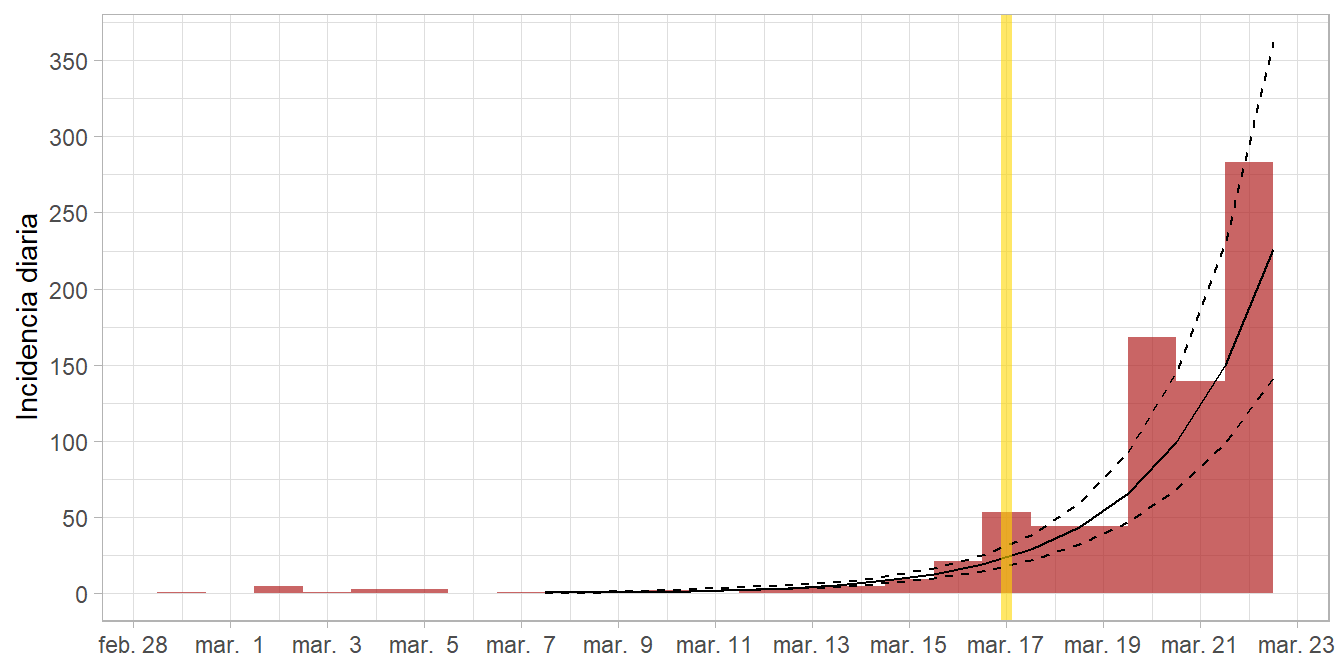
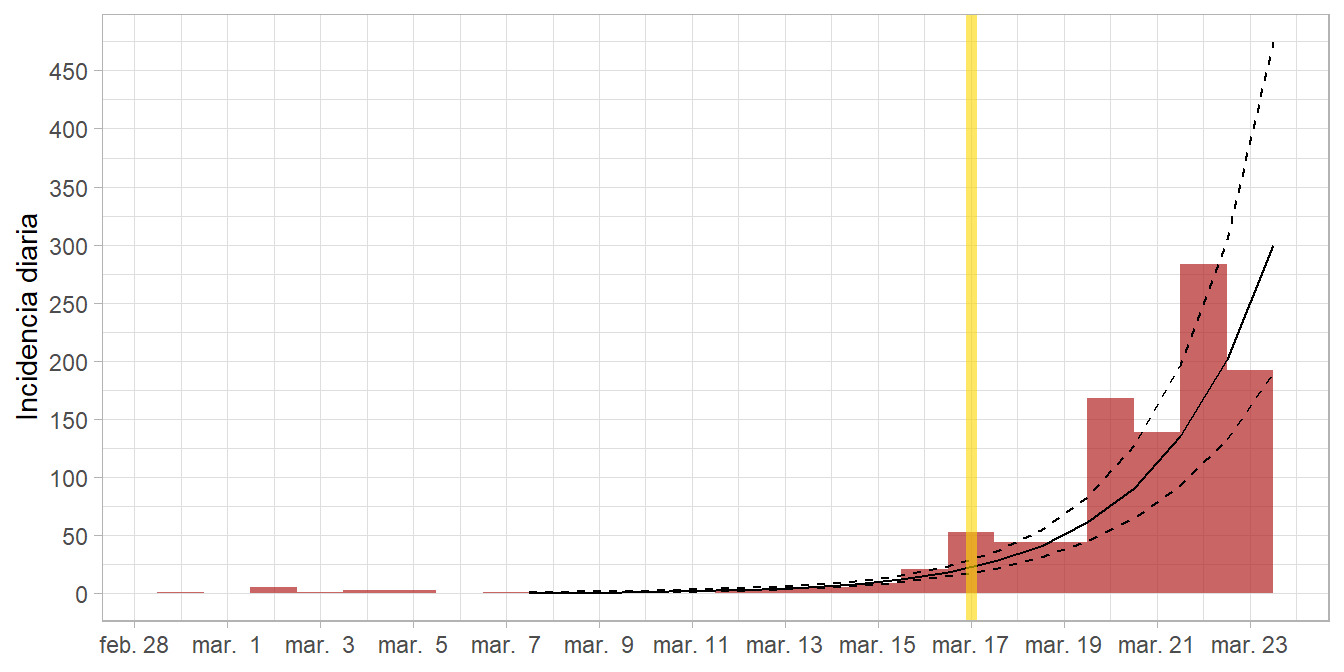
5th post corona act4

diff --git a/docs/post/2020/03/20-caracterizacion-covid-ecuador/index.html b/docs/post/2020/03/20-caracterizacion-covid-ecuador/index.html
@@ -298,7 +298,7 @@ code span.wa { color: #bf0303; } /* Warning */
 </style>
 
 
-<p><strong>Actualizado: 22 de marzo, 12 AM</strong></p>
+<p><strong>Actualizado: 23 de marzo, 12 AM</strong></p>
 <p>En vista de la emergencia en curso causada por el SARS-CoV-2 se presenta una caracterización de la epidemia en Ecuador. Se ha aplicado una metodología sugerida por el R Epidemics Consortium <a href="https://www.repidemicsconsortium.org/">RECON</a> que permite estimar tempranamente el ritmo reproductivo del virus; esta metodología requiere poseer información sobre la transmisión, y datos de la incidencia. La información requerida contempla los siguientes conceptos:</p>
 <ul>
 <li><p>El ritmo reproductivo básico (<em>Basic Reproduction Number</em>, R<sub>0</sub>) es el número esperado de casos nuevos, generados directamente por un determinado caso en una población completamente susceptible; es crucial entender que R<sub>0</sub> no es una constante biológica de un patógeno, pues es afectado por factores ambientales y conductuales.</p></li>
@@ -331,6 +331,20 @@ Personas fallecidas
 </tr>
 </thead>
 <tbody>
+<tr>
+<td style="text-align:left;">
+Riesgos_Ec
+</td>
+<td style="text-align:left;">
+23 de marzo, 10 AM
+</td>
+<td style="text-align:right;">
+981
+</td>
+<td style="text-align:right;">
+18
+</td>
+</tr>
 <tr>
 <td style="text-align:left;">
 Riesgos_Ec
@@ -613,8 +627,8 @@ Salud_Ec
 ##          1          5          1          3          3          1          1 
 ## 2020-03-10 2020-03-12 2020-03-13 2020-03-14 2020-03-15 2020-03-16 2020-03-17 
 ##          2          2          4          5          9         21         53 
-## 2020-03-18 2020-03-19 2020-03-20 2020-03-21 2020-03-22 
-##         44         44        168        139        283</code></pre>
+## 2020-03-18 2020-03-19 2020-03-20 2020-03-21 2020-03-22 2020-03-23 
+##         44         44        168        139        283        192</code></pre>
 <p>A continuación es posible ajustar un modelo logarítmico para la incidencia en el tiempo utilizando el paquete <code>incidence</code>:</p>
 <div class="sourceCode" id="cb3"><pre class="sourceCode r"><code class="sourceCode r"><a class="sourceLine" id="cb3-1" title="1"><span class="kw">library</span>(incidence)</a>
 <a class="sourceLine" id="cb3-2" title="2"></a>
@@ -629,8 +643,8 @@ Salud_Ec
 ## 
 ## Coefficients:
 ## (Intercept)      dates.x  
-##     -0.9479       0.4110</code></pre>
-<p>En el caso de Ecuador, el comportamiento logarítmico (R<sup>2</sup> = 0.9522) es observable una semana después de la detección del primer caso. De acuerdo a este modelo se espera que cada 1.69 días se dupliquen los casos; esto, con un intervalo de confianza (CI) al 95 % de 1.48 a 1.96 días. En el siguiente gráfico las columnas rojas representan la incidencia diaria, la curva el modelo logarítmico -las líneas entrecortadas delimitan el 95 % CI- y la recta amarilla el inicio del estado de excepción, decretado para frenar las transmisiones.</p>
+##     -0.8710       0.3985</code></pre>
+<p>En el caso de Ecuador, el comportamiento logarítmico (R<sup>2</sup> = 0.9531) es observable una semana después de la detección del primer caso. De acuerdo a este modelo se espera que cada 1.74 días se dupliquen los casos; esto, con un intervalo de confianza (CI) al 95 % de 1.54 a 2.01 días. En el siguiente gráfico las columnas rojas representan la incidencia diaria, la curva el modelo logarítmico -las líneas entrecortadas delimitan el 95 % CI- y la recta amarilla el inicio del estado de excepción, decretado para frenar las transmisiones.</p>
 <div class="figure"><span id="fig:logplot"></span>
 <img src="../../../../post/2020/03/20-caracterizacion-covid-ecuador_files/figure-html/logplot-1.png" alt="Incidencia diaria de COVID-19 en Ecuador y modelo logarítmico ajustado" width="672" />
 <p class="caption">
@@ -655,17 +669,17 @@ Figure 1: Incidencia diaria de COVID-19 en Ecuador y modelo logarítmico ajustad
 Figure 2: Distribución de Ro del COVID-19 según SI de otros coronavirus 👈 y de cadenas de transmisión estudiadas 👉
 </p>
 </div>
-<p>La primera alternativa arroja 4.7207 como el valor más probable; es posible considerar este valor una sobrestimación de R<sub>0</sub> según lo observado en estudios recientes. Mientras tanto, la segunda alternativa estima un R<sub>0</sub> = 2.0841 (95 % CI: 1.9459 - 2.2342); un valor congruente con los estudios, donde se ha observado que el SARS-CoV-2 posee un SI más corto que otros coronavirus. Por ende, aun con un ritmo reproductivo menor, puede generar más casos.</p>
+<p>La primera alternativa arroja 4 como el valor más probable; es posible considerar este valor una sobrestimación de R<sub>0</sub> según lo observado en estudios recientes. Mientras tanto, la segunda alternativa estima un R<sub>0</sub> = 1.86 (95 % CI: 1.75 - 1.98); un valor congruente con los estudios, donde se ha observado que el SARS-CoV-2 posee un SI más corto que otros coronavirus. Por ende, aun con un ritmo reproductivo menor, puede generar más casos.</p>
 <p>Considerando R<sub>0</sub> se puede modelar una proyección futura, más flexible que la arrojada por el modelo exponencial solamente. Se ha utilizado <code>projections</code> para predecir tres escenarios, calculando en cada uno diez mil simulaciones para cada día de las dos próximas semanas.</p>
 <div class="sourceCode" id="cb6"><pre class="sourceCode r"><code class="sourceCode r"><a class="sourceLine" id="cb6-1" title="1"><span class="kw">library</span>(projections)</a>
 <a class="sourceLine" id="cb6-2" title="2"></a>
 <a class="sourceLine" id="cb6-3" title="3">EC_proj =<span class="st"> </span><span class="kw">project</span>(EC_incid, R_sample, R_chains<span class="op">$</span>si, <span class="dt">n_days =</span> <span class="dv">14</span>, <span class="dt">n_sim =</span> <span class="fl">1e4</span>)</a>
 <a class="sourceLine" id="cb6-4" title="4"></a>
 <a class="sourceLine" id="cb6-5" title="5"><span class="kw">rowMeans</span>(EC_proj)</a></code></pre></div>
-<pre><code>## 2020-03-23 2020-03-24 2020-03-25 2020-03-26 2020-03-27 2020-03-28 2020-03-29 
-##   222.9667   281.0238   344.1267   417.3118   503.9178   609.0908   735.8126 
-## 2020-03-30 2020-03-31 2020-04-01 2020-04-02 2020-04-03 2020-04-04 2020-04-05 
-##   887.5471  1072.2918  1294.5923  1563.9690  1889.7482  2279.6449  2754.6759</code></pre>
+<pre><code>## 2020-03-24 2020-03-25 2020-03-26 2020-03-27 2020-03-28 2020-03-29 2020-03-30 
+##   241.6699   285.5094   333.7720   389.0628   452.4798   526.6639   613.1299 
+## 2020-03-31 2020-04-01 2020-04-02 2020-04-03 2020-04-04 2020-04-05 2020-04-06 
+##   712.0398   829.0010   964.0129  1122.4745  1306.3335  1518.5921  1768.5586</code></pre>
 <p>Estos datos representan la incidencia promedio para cada día, en un primer escenario donde R<sub>0</sub> no cambia en absoluto. Los casos actuales y la proyección futura -la región sombreada delimita el 95 % CI- se presentan en el siguiente gráfico de manera acumulativa:</p>
 <div class="sourceCode" id="cb8"><pre class="sourceCode r"><code class="sourceCode r"><a class="sourceLine" id="cb8-1" title="1">EC_incid =<span class="st"> </span><span class="kw">cumulate</span>(EC_incid)</a>
 <a class="sourceLine" id="cb8-2" title="2"></a>
@@ -674,25 +688,25 @@ Figure 2: Distribución de Ro del COVID-19 según SI de otros coronavirus 👈 y
 <a class="sourceLine" id="cb8-5" title="5"><span class="kw">add_projections</span>(<span class="kw">plot</span>(EC_incid), EC_proj <span class="op">+</span><span class="st"> </span><span class="kw">max</span>(EC_incid<span class="op">$</span>counts), <span class="kw">c</span>(.<span class="dv">025</span>, <span class="fl">.5</span>)) <span class="op">+</span></a>
 <a class="sourceLine" id="cb8-6" title="6"><span class="st">   </span><span class="kw">geom_vline</span>(<span class="dt">xintercept =</span> <span class="kw">as.Date</span>(<span class="st">&quot;2020-03-17&quot;</span>), <span class="dt">col =</span> <span class="st">&quot;gold&quot;</span>, <span class="dt">alpha =</span> <span class="fl">.6</span>, <span class="dt">size =</span> <span class="dv">2</span>) <span class="op">+</span></a>
 <a class="sourceLine" id="cb8-7" title="7"><span class="st">   </span><span class="kw">scale_x_date</span>(<span class="dt">date_breaks =</span> <span class="st">&quot;4 days&quot;</span>, <span class="dt">date_labels =</span> <span class="st">&quot;%b %e&quot;</span>) <span class="op">+</span></a>
-<a class="sourceLine" id="cb8-8" title="8"><span class="st">   </span><span class="kw">scale_y_continuous</span>(<span class="st">&quot;Incidencia diaria acumulada&quot;</span>, <span class="dv">2000</span> <span class="op">*</span><span class="st"> </span><span class="dv">0</span><span class="op">:</span><span class="dv">9</span>) <span class="op">+</span></a>
+<a class="sourceLine" id="cb8-8" title="8"><span class="st">   </span><span class="kw">scale_y_continuous</span>(<span class="st">&quot;Incidencia diaria acumulada&quot;</span>, <span class="fl">1e3</span> <span class="op">*</span><span class="st"> </span><span class="dv">0</span><span class="op">:</span><span class="dv">13</span>) <span class="op">+</span></a>
 <a class="sourceLine" id="cb8-9" title="9"><span class="st">   </span><span class="kw">scale_fill_manual</span>(<span class="dt">values =</span> <span class="st">&quot;firebrick&quot;</span>)</a></code></pre></div>
 <div class="figure"><span id="fig:project-normal"></span>
-<img src="../../../../post/2020/03/20-caracterizacion-covid-ecuador_files/figure-html/project-normal-1.png" alt="Proyección de incidencia diaria acumulada de COVID-19 en Ecuador si R0 = 2.0841" width="672" />
+<img src="../../../../post/2020/03/20-caracterizacion-covid-ecuador_files/figure-html/project-normal-1.png" alt="Proyección de incidencia diaria acumulada de COVID-19 en Ecuador si R0 = 1.8559" width="672" />
 <p class="caption">
-Figure 3: Proyección de incidencia diaria acumulada de COVID-19 en Ecuador si R0 = 2.0841
+Figure 3: Proyección de incidencia diaria acumulada de COVID-19 en Ecuador si R0 = 1.8559
 </p>
 </div>
 <p>El segundo y tercer escenarios calculados suponen que R<sub>0</sub> se reduce a la mitad (figura <a href="#fig:project-better">4</a>) y a la quinta parte (figura <a href="#fig:project-best">5</a>), respectivamente:</p>
 <div class="figure"><span id="fig:project-better"></span>
-<img src="../../../../post/2020/03/20-caracterizacion-covid-ecuador_files/figure-html/project-better-1.png" alt="Proyección de incidencia diaria acumulada de COVID-19 en Ecuador si R0 = 1.042" width="672" />
+<img src="../../../../post/2020/03/20-caracterizacion-covid-ecuador_files/figure-html/project-better-1.png" alt="Proyección de incidencia diaria acumulada de COVID-19 en Ecuador si R0 = 0.9279" width="672" />
 <p class="caption">
-Figure 4: Proyección de incidencia diaria acumulada de COVID-19 en Ecuador si R0 = 1.042
+Figure 4: Proyección de incidencia diaria acumulada de COVID-19 en Ecuador si R0 = 0.9279
 </p>
 </div>
 <div class="figure"><span id="fig:project-best"></span>
-<img src="../../../../post/2020/03/20-caracterizacion-covid-ecuador_files/figure-html/project-best-1.png" alt="Proyección de incidencia diaria acumulada de COVID-19 en Ecuador si R0 = 0.4168" width="672" />
+<img src="../../../../post/2020/03/20-caracterizacion-covid-ecuador_files/figure-html/project-best-1.png" alt="Proyección de incidencia diaria acumulada de COVID-19 en Ecuador si R0 = 0.3712" width="672" />
 <p class="caption">
-Figure 5: Proyección de incidencia diaria acumulada de COVID-19 en Ecuador si R0 = 0.4168
+Figure 5: Proyección de incidencia diaria acumulada de COVID-19 en Ecuador si R0 = 0.3712
 </p>
 </div>
 <p>Evidentemente, si R<sub>0</sub> &lt; 1 la epidemia será controlada eventualmente. Sin embargo, <strong>estas proyecciones no son realistas</strong> pues cualquier cambio introducido en R<sub>0</sub> -a través de medidas políticas, sociales y sanitarias- no se refleja inmediatamente; en Ecuador es necesario contar las infecciones previas a la declaración de estado de excepción, y que aún no han superado el periodo de incubación. Se pretende actualizar este post conforme las incidencias diarias sean reportadas y reflejen, con optimismo, las medidas adoptadas.</p>
